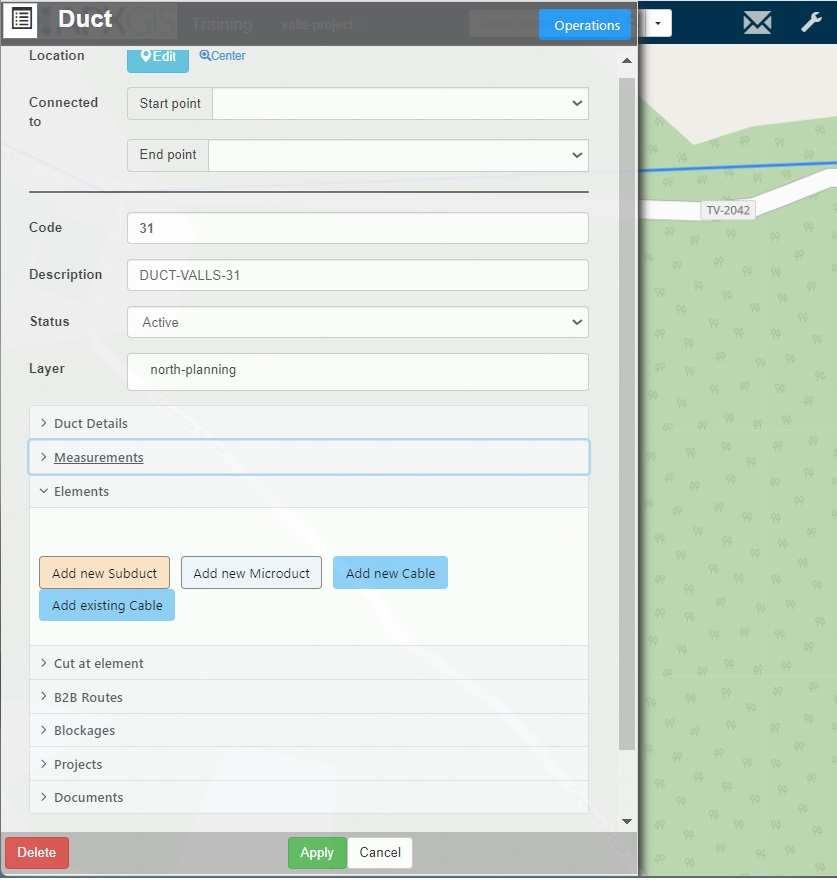
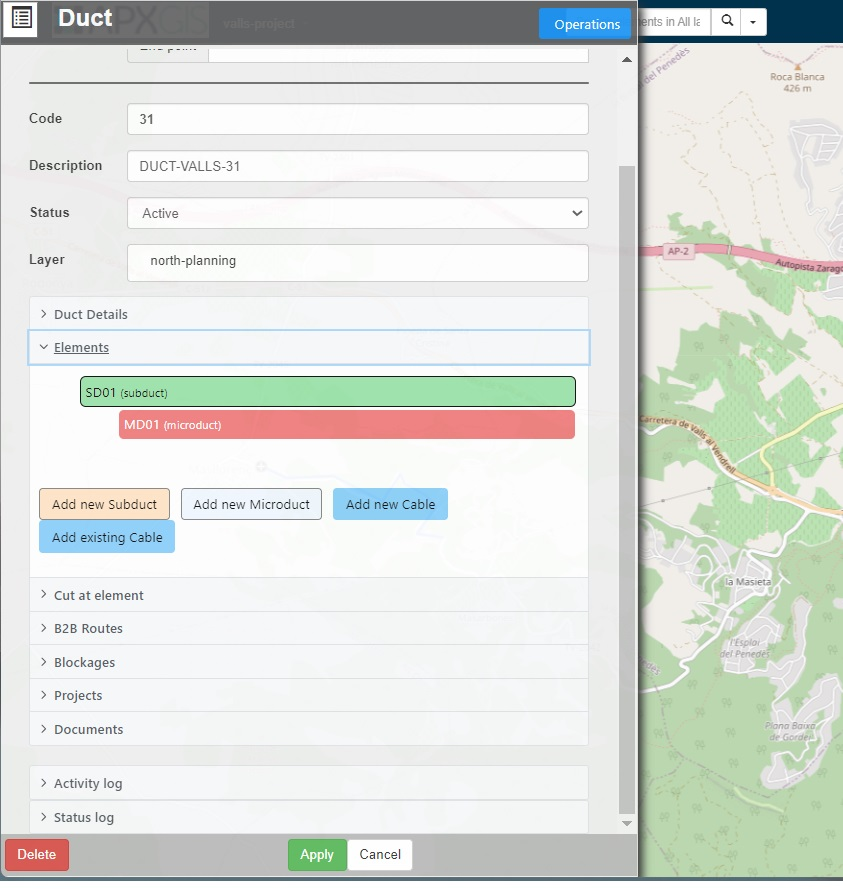
Changes

diff --git a/docs/06-tutorial elements/07-duct/01-create-duct.md b/docs/06-tutorial elements/07-duct/01-create-duct.md
@@ -16,3 +16,245 @@ This guide will help you create a **duct** in the programme.
 
 ------------
 ## **Step by Step**
+
+1\. Navigate to [https://app.apx-gis.net/#/](https://app.apx-gis.net/#/)
+
+
+2\. It is a good practice to first select the project and then start placing the elements.
+
+Click "**Select Project**" option.
+
+![](https://ajeuwbhvhr.cloudimg.io/colony-recorder.s3.amazonaws.com/files/2024-01-28/2a09ef81-cf8b-46ef-ab27-936130824535/ascreenshot.jpeg?tl_px=0,0&br_px=1238,692&force_format=png&width=1120.0&wat=1&wat_opacity=1&wat_gravity=northwest&wat_url=https://colony-recorder.s3.amazonaws.com/images/watermarks/14B8A6_standard.png&wat_pad=444,3)
+
+
+3\. Select the project. For this example "**valls-project**" was selected.
+
+![](https://ajeuwbhvhr.cloudimg.io/colony-recorder.s3.amazonaws.com/files/2024-01-28/771bd92d-9967-4458-b736-f10b94affbce/ascreenshot.jpeg?tl_px=0,0&br_px=1238,692&force_format=png&width=1120.0&wat=1&wat_opacity=1&wat_gravity=northwest&wat_url=https://colony-recorder.s3.amazonaws.com/images/watermarks/14B8A6_standard.png&wat_pad=479,181)
+
+
+4\. To place the elements in the project, there are two options available to do it:
+
+
+**Option 1:** Through the menu "**Operations &gt; New Central Node**" and then indicate on the map where we want to place it.
+
+**Option 2:** Go to the map first and select the point where we want to place the element and "**right click**". The element window will appear. Select "**Central node**".
+
+For this example, click "**Operations**" option.
+
+![](https://ajeuwbhvhr.cloudimg.io/colony-recorder.s3.amazonaws.com/files/2024-01-28/457154f2-7355-4911-8411-441fce018bee/ascreenshot.jpeg?tl_px=0,0&br_px=1238,692&force_format=png&width=1120.0&wat=1&wat_opacity=1&wat_gravity=northwest&wat_url=https://colony-recorder.s3.amazonaws.com/images/watermarks/14B8A6_standard.png&wat_pad=116,166)
+
+
+5\. Click "**New Duct**" option.
+
+![](https://ajeuwbhvhr.cloudimg.io/colony-recorder.s3.amazonaws.com/files/2024-01-28/6362ba83-5079-4ded-9ade-98587123f773/ascreenshot.jpeg?tl_px=0,0&br_px=1238,693&force_format=png&width=1120.0&wat=1&wat_opacity=1&wat_gravity=northwest&wat_url=https://colony-recorder.s3.amazonaws.com/images/watermarks/14B8A6_standard.png&wat_pad=91,277)
+
+
+6\. The programme will send a message at the top **( \* )** requesting to define a location.
+
+Click the desired location.
+
+![](https://ajeuwbhvhr.cloudimg.io/colony-recorder.s3.amazonaws.com/files/2024-01-29/d1da8281-1fa6-4791-9229-aa67bad4b7a9/user_cropped_screenshot.jpeg?tl_px=0,0&br_px=1719,791&force_format=png&width=1120.0&wat=1&wat_opacity=1&wat_gravity=northwest&wat_url=https://colony-recorder.s3.amazonaws.com/images/watermarks/14B8A6_standard.png&wat_pad=461,141)
+
+
+7\. The ducts are represented by straight lines. The system prompts you to enter the starting point and so on the points through which the duct passes.
+
+To indicate the end of the duct, you must click again on the last marked point.
+
+![](https://ajeuwbhvhr.cloudimg.io/colony-recorder.s3.amazonaws.com/files/2024-01-28/83e80eeb-2e1a-46a8-9ca1-3284c189e20d/ascreenshot.jpeg?tl_px=280,0&br_px=1519,692&force_format=png&width=1120.0&wat=1&wat_opacity=1&wat_gravity=northwest&wat_url=https://colony-recorder.s3.amazonaws.com/images/watermarks/14B8A6_standard.png&wat_pad=524,267)
+
+
+8\. The programme will ask you to define the **Duct path** by clicking all the points.
+
+![](https://ajeuwbhvhr.cloudimg.io/colony-recorder.s3.amazonaws.com/files/2024-01-28/f1d49c27-a266-4fd0-876e-2a372e6af514/ascreenshot.jpeg?tl_px=201,0&br_px=1920,791&force_format=png&width=1120.0&wat=1&wat_opacity=1&wat_gravity=northwest&wat_url=https://colony-recorder.s3.amazonaws.com/images/watermarks/14B8A6_standard.png&wat_pad=603,175)
+
+
+9\. Click on the several points you need to define the duct.
+
+![](https://ajeuwbhvhr.cloudimg.io/colony-recorder.s3.amazonaws.com/files/2024-01-28/15c08ac9-6824-4a89-8065-d5126e4a5f1e/ascreenshot.jpeg?tl_px=201,0&br_px=1920,791&force_format=png&width=1120.0&wat=1&wat_opacity=1&wat_gravity=northwest&wat_url=https://colony-recorder.s3.amazonaws.com/images/watermarks/14B8A6_standard.png&wat_pad=1007,303)
+
+
+10\. To define the end of the duct, click twice the last point.
+
+![](https://ajeuwbhvhr.cloudimg.io/colony-recorder.s3.amazonaws.com/files/2024-01-28/39e7fca2-e2a7-4e02-b471-fe9772ce1239/ascreenshot.jpeg?tl_px=682,98&br_px=1921,791&force_format=png&width=1120.0&wat=1&wat_opacity=1&wat_gravity=northwest&wat_url=https://colony-recorder.s3.amazonaws.com/images/watermarks/14B8A6_standard.png&wat_pad=1011,506)
+
+
+11\. The duct window will be shown.
+
+When creating an element, the basic fields are requested:
+
+**Location :** This information is filled automatically with the information of the points you marked on the previous steps.
+
+**Id:** if you have a Counter assigned, this field will be filled automatically.
+
+**Description:** You must enter the description of the element.
+
+**Layer:** you must assign the element to one or several layers. If no assigned to any layer, it will be placed into "**Default**" layer.
+
+For this example the "**id**" field was automatically filled and for the description it was typed "DUCT-VALLS-31".
+
+![](https://ajeuwbhvhr.cloudimg.io/colony-recorder.s3.amazonaws.com/files/2024-01-29/9ca953ea-bcab-46b8-9973-2955460f0fc1/user_cropped_screenshot.jpeg?tl_px=0,0&br_px=1719,791&force_format=png&width=1120.0&wat=1&wat_opacity=1&wat_gravity=northwest&wat_url=https://colony-recorder.s3.amazonaws.com/images/watermarks/14B8A6_standard.png&wat_pad=92,240)
+
+
+12\. Click "**Layer**" field.
+
+![](https://ajeuwbhvhr.cloudimg.io/colony-recorder.s3.amazonaws.com/files/2024-01-28/36194e95-50ee-414c-b041-ab14e7476512/ascreenshot.jpeg?tl_px=0,98&br_px=1238,791&force_format=png&width=1120.0&wat=1&wat_opacity=1&wat_gravity=northwest&wat_url=https://colony-recorder.s3.amazonaws.com/images/watermarks/14B8A6_standard.png&wat_pad=192,325)
+
+
+13\. Select the layer or layers you need to assign the element. For this example "**north-planning**" was selected.
+
+![](https://ajeuwbhvhr.cloudimg.io/colony-recorder.s3.amazonaws.com/files/2024-01-28/915b43d2-e886-4a2e-8c0b-f5d25d37b5c8/ascreenshot.jpeg?tl_px=0,21&br_px=1376,791&force_format=png&width=1120.0&wat=1&wat_opacity=1&wat_gravity=northwest&wat_url=https://colony-recorder.s3.amazonaws.com/images/watermarks/14B8A6_standard.png&wat_pad=252,540)
+
+
+14\. Click "**Apply**" button.
+
+![](https://ajeuwbhvhr.cloudimg.io/colony-recorder.s3.amazonaws.com/files/2024-01-28/431ea2fa-f4a6-4e9d-9279-4bdcb8324822/ascreenshot.jpeg?tl_px=0,98&br_px=1238,791&force_format=png&width=1120.0&wat=1&wat_opacity=1&wat_gravity=northwest&wat_url=https://colony-recorder.s3.amazonaws.com/images/watermarks/14B8A6_standard.png&wat_pad=314,558)
+
+
+**Tip:** If the layer to which you are assigning the element is not active, the program will send you a message indicating that you will not be able to see the element unless you activate it.
+
+If the layer was not selected, go to "**Maps-Layers-Types**" menu at the top right of the screen ans select the layer to wich the element was assigned. 
+
+
+15\. Up to this point the element only has the **minimum information,** from this point on we will provide more information to the element.
+
+Click the element that has been created **(Duct)**.
+
+![](https://ajeuwbhvhr.cloudimg.io/colony-recorder.s3.amazonaws.com/files/2024-01-28/1b7a3f10-bd10-404b-8365-0fc2d9efac0e/ascreenshot.jpeg?tl_px=648,31&br_px=1887,724&force_format=png&width=1120.0&wat=1&wat_opacity=1&wat_gravity=northwest&wat_url=https://colony-recorder.s3.amazonaws.com/images/watermarks/14B8A6_standard.png&wat_pad=524,277)
+
+
+16\. The "**pop up elemen**t" window will open. Click the description of the element, for this example "- **DUCT-VALLS-31**" was selected.
+
+![](https://ajeuwbhvhr.cloudimg.io/colony-recorder.s3.amazonaws.com/files/2024-01-28/17e82851-b99f-423c-a116-2bdacc3a97d5/ascreenshot.jpeg?tl_px=526,0&br_px=1765,692&force_format=png&width=1120.0&wat=1&wat_opacity=1&wat_gravity=northwest&wat_url=https://colony-recorder.s3.amazonaws.com/images/watermarks/14B8A6_standard.png&wat_pad=524,213)
+
+
+17\. Element window will be opened (Duct), click "**Status**" field and a drop down menu will be shown. The "**Status**" field is assigned to all elements. For this example "**Active**" status was selected.
+
+To edit or add values to "**Status**" field follow the menu:
+
+"**Administration&gt;Codifiers&gt;Element state**".
+
+Please refer to the documentation "**Element types &gt; Codifiers**".
+
+![](https://ajeuwbhvhr.cloudimg.io/colony-recorder.s3.amazonaws.com/files/2024-01-28/88f3fed2-7a56-4adc-9729-e3a37d733abb/ascreenshot.jpeg?tl_px=6,0&br_px=1725,791&force_format=png&width=1120.0&wat=1&wat_opacity=1&wat_gravity=northwest&wat_url=https://colony-recorder.s3.amazonaws.com/images/watermarks/14B8A6_standard.png&wat_pad=524,286)
+
+
+18\. Element window will be opened (Duct), click "**Status**" field and a drop down menu will be shown. The "**Status**" field is assigned to all elements. For this example "**Active**" status was selected.
+
+To edit or add values to "**Status**" field follow the menu:
+
+"**Administration&gt;Codifiers&gt;Element state**".
+
+Please refer to the documentation "**Element types &gt; Codifiers**".
+
+![](https://ajeuwbhvhr.cloudimg.io/colony-recorder.s3.amazonaws.com/files/2024-01-29/abb4630e-1db2-42ca-925b-93b849d74803/user_cropped_screenshot.jpeg?tl_px=0,15&br_px=836,656&force_format=png&width=1120.0&wat=1&wat_opacity=1&wat_gravity=northwest&wat_url=https://colony-recorder.s3.amazonaws.com/images/watermarks/14B8A6_standard.png&wat_pad=769,393)
+
+
+19\. To continue entering the element information, click "**Duct Details**" option.
+
+![](https://ajeuwbhvhr.cloudimg.io/colony-recorder.s3.amazonaws.com/files/2024-01-30/23ad218e-486e-432a-90f3-13186e54bb8c/user_cropped_screenshot.jpeg?tl_px=0,0&br_px=829,653&force_format=png&width=1120.0&wat=1&wat_opacity=1&wat_gravity=northwest&wat_url=https://colony-recorder.s3.amazonaws.com/images/watermarks/14B8A6_standard.png&wat_pad=28,534)
+
+
+20\. Within the information group "**Details**" the fields to be filled in are:
+
+**Measured length.** This field is auto populated.
+
+**Calculated lengths.** This field is auto populated.
+
+**Type.** This field is a codifier, which means that we must assign values beforehand so that they can be selected in this field.
+
+To edit or add values to "**Type**" field follow the menu:
+
+"**Administration&gt;Codifiers&gt;Duct Model**".
+
+Please refer to the documentation "**Element types &gt; Codifiers**".
+
+**Map Color.** Indicates the color with which the element will be reflected on the map.\
+The available colors have to be previously registered following the path "**Administration &gt; Colors** " (Please check the documentation in: "**Element types &gt; Colors**" of this manual).
+
+**Operator.** This field is a codifier, which means that we must assign values beforehand so that they can be selected in this field.
+
+![](https://ajeuwbhvhr.cloudimg.io/colony-recorder.s3.amazonaws.com/files/2024-01-30/a99a0497-4c8d-4f43-bc42-99cc86a08ad5/user_cropped_screenshot.jpeg?tl_px=0,59&br_px=848,829&force_format=png&width=1120.0)
+
+
+21\. Within the information group "**Details**" the fields to be filled in are:
+
+**Depth.** This field is numeric.
+
+**Material**. This field is alphanumeric (Numbers and letters allowed).
+
+**Ownership.** This field is a codifier, which means that we must assign values beforehand so that they can be selected in this field.
+
+**Installation date:** Register the date, whe you click this field, a calendar will be shown for you to select the date.
+
+**Internal disposition:**   This field is a codifier, which means that we must assign values beforehand so that they can be selected in this field.
+
+To edit or add values to "**Internal disposition**" field follow the menu:
+
+"**Administration &gt; Codifiers &gt; Canalization Section Disposition**".
+
+Please refer to the documentation "**Element types &gt; Codifiers**".
+
+**Disposition**: This field is alphanumeric (Numbers and letters allowed).
+
+![](https://ajeuwbhvhr.cloudimg.io/colony-recorder.s3.amazonaws.com/files/2024-01-30/aaba67a5-1276-42f4-8ce7-a9d00ab92260/user_cropped_screenshot.jpeg?tl_px=0,0&br_px=834,458&force_format=png&width=860)
+
+
+22\. Within the information group "**Details**" the fields to be filled in are:
+
+**Shape**:
+
+- Rectangular
+- Circular
+- Free
+
+**Diameter**. This field is numeric.
+
+![](https://ajeuwbhvhr.cloudimg.io/colony-recorder.s3.amazonaws.com/files/2024-01-30/8981d6ea-563d-42c0-865c-f009de8ddabf/user_cropped_screenshot.jpeg?tl_px=0,204&br_px=841,684&force_format=png&width=860)
+
+
+23\. Within the information group "**Elements**" the following actions may be carried out:
+
+1. **Add new Subduct**: Please refer to the path "**Element &gt; Subduct &gt; Add new Subduct"** of this manual.
+2. **Add new Microduct:** Please refer to the path "**Element &gt; Microduct &gt; Add new Microduct"** of this manual.
+3. **Add new Cable:** Please refer to the path "**Element &gt; Cable &gt; Add new Cable to Subduct or Microduct"** of this manual.
+4. **Add existing Cable:** Please refer to the path "**Element &gt; Cable &gt; Add existing Cable to Subduct or Microduct"** of this manual.
+
+For this example a subduct and microduct were created previously.
+
+![](https://ajeuwbhvhr.cloudimg.io/colony-recorder.s3.amazonaws.com/files/2024-01-30/4d7ab184-8dd2-420b-bfa6-4c5364d35bb1/user_cropped_screenshot.jpeg?tl_px=0,204&br_px=843,684&force_format=png&width=860)
+
+
+24\. Within the information group "**Cut at element**" the action **Look for Anchor Elements** can be performed. Please refer to the following documentation of this manual :
+
+- Elements &gt; Cable &gt; Cut Cable
+- Elements &gt; Subduct &gt; Cut Subduct
+- Elements &gt; Microduct &gt; Cut Microduct
+
+![](https://ajeuwbhvhr.cloudimg.io/colony-recorder.s3.amazonaws.com/files/2024-01-30/eb6d464d-037f-46ad-a720-e41ab2ecb3be/user_cropped_screenshot.jpeg?tl_px=0,26&br_px=1238,719&force_format=png&width=1120.0&wat=1&wat_opacity=1&wat_gravity=northwest&wat_url=https://colony-recorder.s3.amazonaws.com/images/watermarks/14B8A6_standard.png&wat_pad=28,277)
+
+
+25\. Within the information group "**Blockages**"  you will be able to add Blockages. 
+
+![](https://ajeuwbhvhr.cloudimg.io/colony-recorder.s3.amazonaws.com/files/2024-01-30/a27432bb-2501-4a8f-a0ca-ab548d612975/user_cropped_screenshot.jpeg?tl_px=0,0&br_px=1238,692&force_format=png&width=1120.0&wat=1&wat_opacity=1&wat_gravity=northwest&wat_url=https://colony-recorder.s3.amazonaws.com/images/watermarks/14B8A6_standard.png&wat_pad=20,199)
+
+
+26\. If you need to assign the element to another project, click "**Projects**" dropdown and you will see the current project (Selected in the firsts steps of this document) click "**Add to project**" button.
+
+![](https://ajeuwbhvhr.cloudimg.io/colony-recorder.s3.amazonaws.com/files/2024-01-30/6a6191a8-452e-443c-aa78-b23022c393ca/user_cropped_screenshot.jpeg?tl_px=0,0&br_px=1719,791&force_format=png&width=1120.0&wat=1&wat_opacity=1&wat_gravity=northwest&wat_url=https://colony-recorder.s3.amazonaws.com/images/watermarks/14B8A6_standard.png&wat_pad=460,305)
+
+
+27\. If you need to add specific documents to the central node, you may add documents by:
+
+1. Clicking "**Documents**" dropdown.
+2. Clicking "**+ Choose**" button.
+
+![](https://ajeuwbhvhr.cloudimg.io/colony-recorder.s3.amazonaws.com/files/2024-01-30/a4694ceb-e59c-4707-97c2-19cad70f4d1c/user_cropped_screenshot.jpeg?tl_px=0,0&br_px=1921,791&force_format=png&width=1120.0)
+
+
+28\. Click "**Apply**" button.
+
+![](https://ajeuwbhvhr.cloudimg.io/colony-recorder.s3.amazonaws.com/files/2024-01-30/51d9c228-e396-489f-bd82-659ba87ba23a/File.jpeg?tl_px=0,98&br_px=1238,791&force_format=png&width=1120.0&wat=1&wat_opacity=1&wat_gravity=northwest&wat_url=https://colony-recorder.s3.amazonaws.com/images/watermarks/14B8A6_standard.png&wat_pad=400,555)
+
+
+**Tip:** Duct created with detailed information.
+

diff --git a/docs/06-tutorial elements/06-chamber/01-create-chamber.md b/docs/06-tutorial elements/06-chamber/01-create-chamber.md
@@ -75,7 +75,7 @@ For this example the "**id**" field was automatically filled and for the "**Desc
 ![](https://ajeuwbhvhr.cloudimg.io/colony-recorder.s3.amazonaws.com/files/2024-01-28/88e3ea68-3bef-4720-bab0-665d3c29f165/ascreenshot.jpeg?tl_px=0,98&br_px=1238,791&force_format=png&width=1120.0&wat=1&wat_opacity=1&wat_gravity=northwest&wat_url=https://colony-recorder.s3.amazonaws.com/images/watermarks/14B8A6_standard.png&wat_pad=285,443)
 
 
-10\. Click "Apply"
+10\. Click "**Apply**" button.
 
 ![](https://ajeuwbhvhr.cloudimg.io/colony-recorder.s3.amazonaws.com/files/2024-01-28/021bffc7-58b1-4a82-9620-94ed4b5e9153/ascreenshot.jpeg?tl_px=0,98&br_px=1238,791&force_format=png&width=1120.0&wat=1&wat_opacity=1&wat_gravity=northwest&wat_url=https://colony-recorder.s3.amazonaws.com/images/watermarks/14B8A6_standard.png&wat_pad=308,569)
 
@@ -142,7 +142,7 @@ If there are connected ducts assigned to the Central Node, they will be shown at
 ![](https://ajeuwbhvhr.cloudimg.io/colony-recorder.s3.amazonaws.com/files/2024-01-29/406b1a2f-5d61-4390-a879-6b3c5986cff2/user_cropped_screenshot.jpeg?tl_px=0,0&br_px=860,885&force_format=png&width=1088)
 
 
-17\. If you need to assign the element to another project, click "**Projects**" dropdown and you will se the current project (Selected in the firsts steps of this document) click "**Add to project**" button.
+17\. If you need to assign the element to another project, click "**Projects**" dropdown and you will see the current project (Selected in the firsts steps of this document) click "**Add to project**" button.
 
 ![](https://ajeuwbhvhr.cloudimg.io/colony-recorder.s3.amazonaws.com/files/2024-01-29/e442b20f-2d97-4f98-bdf2-9fe2396a07f2/user_cropped_screenshot.jpeg?tl_px=0,118&br_px=860,888&force_format=png&width=1120.0&wat=1&wat_opacity=1&wat_gravity=northwest&wat_url=https://colony-recorder.s3.amazonaws.com/images/watermarks/14B8A6_standard.png&wat_pad=672,564)
 
